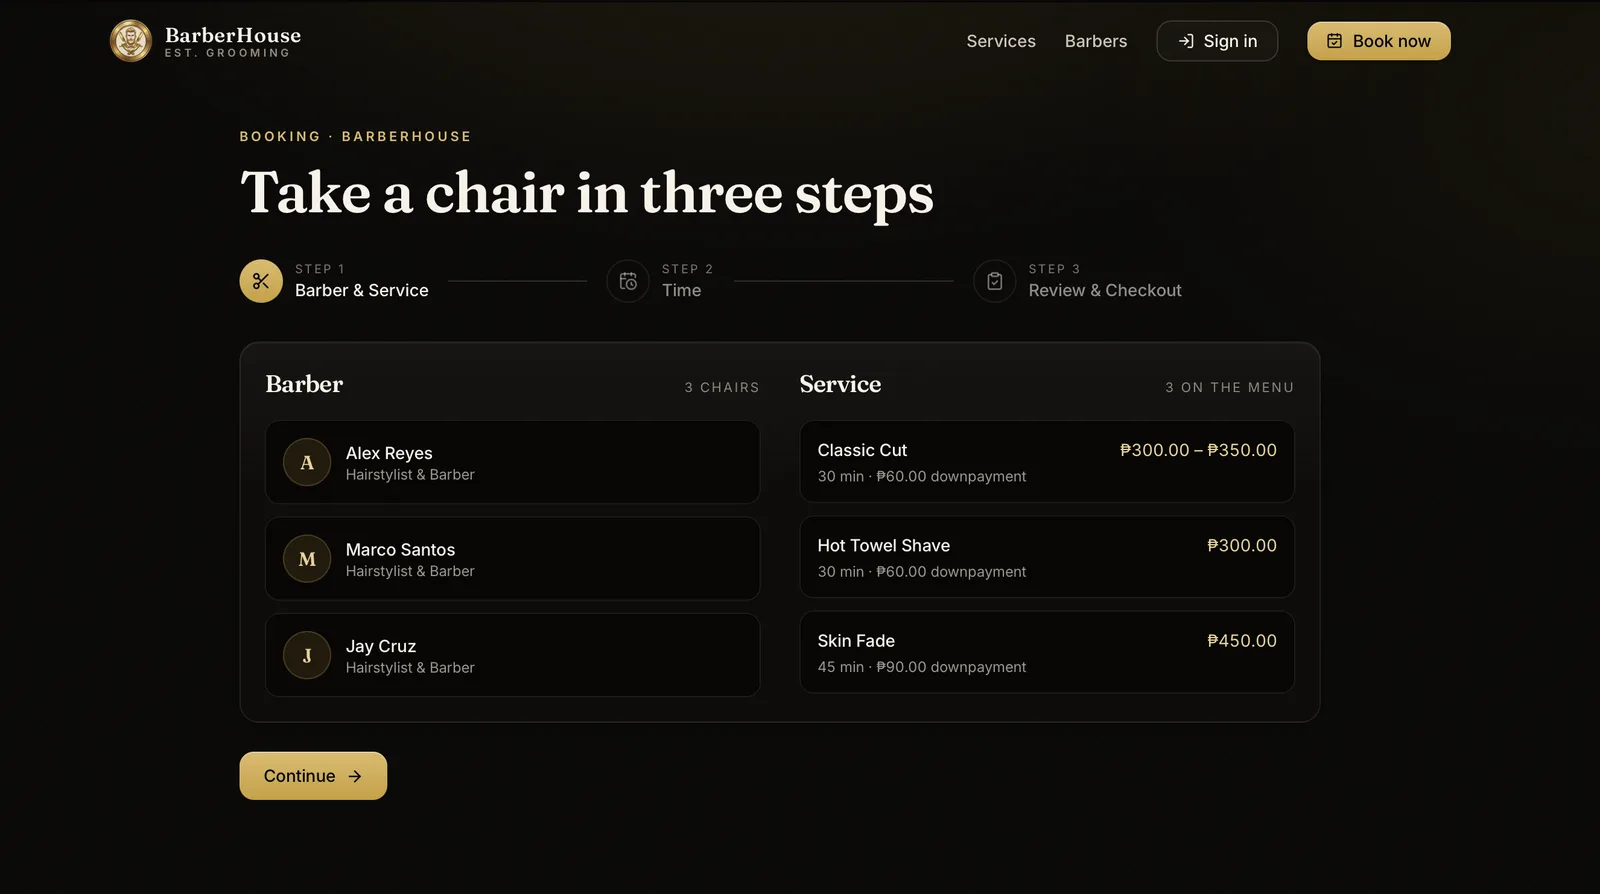
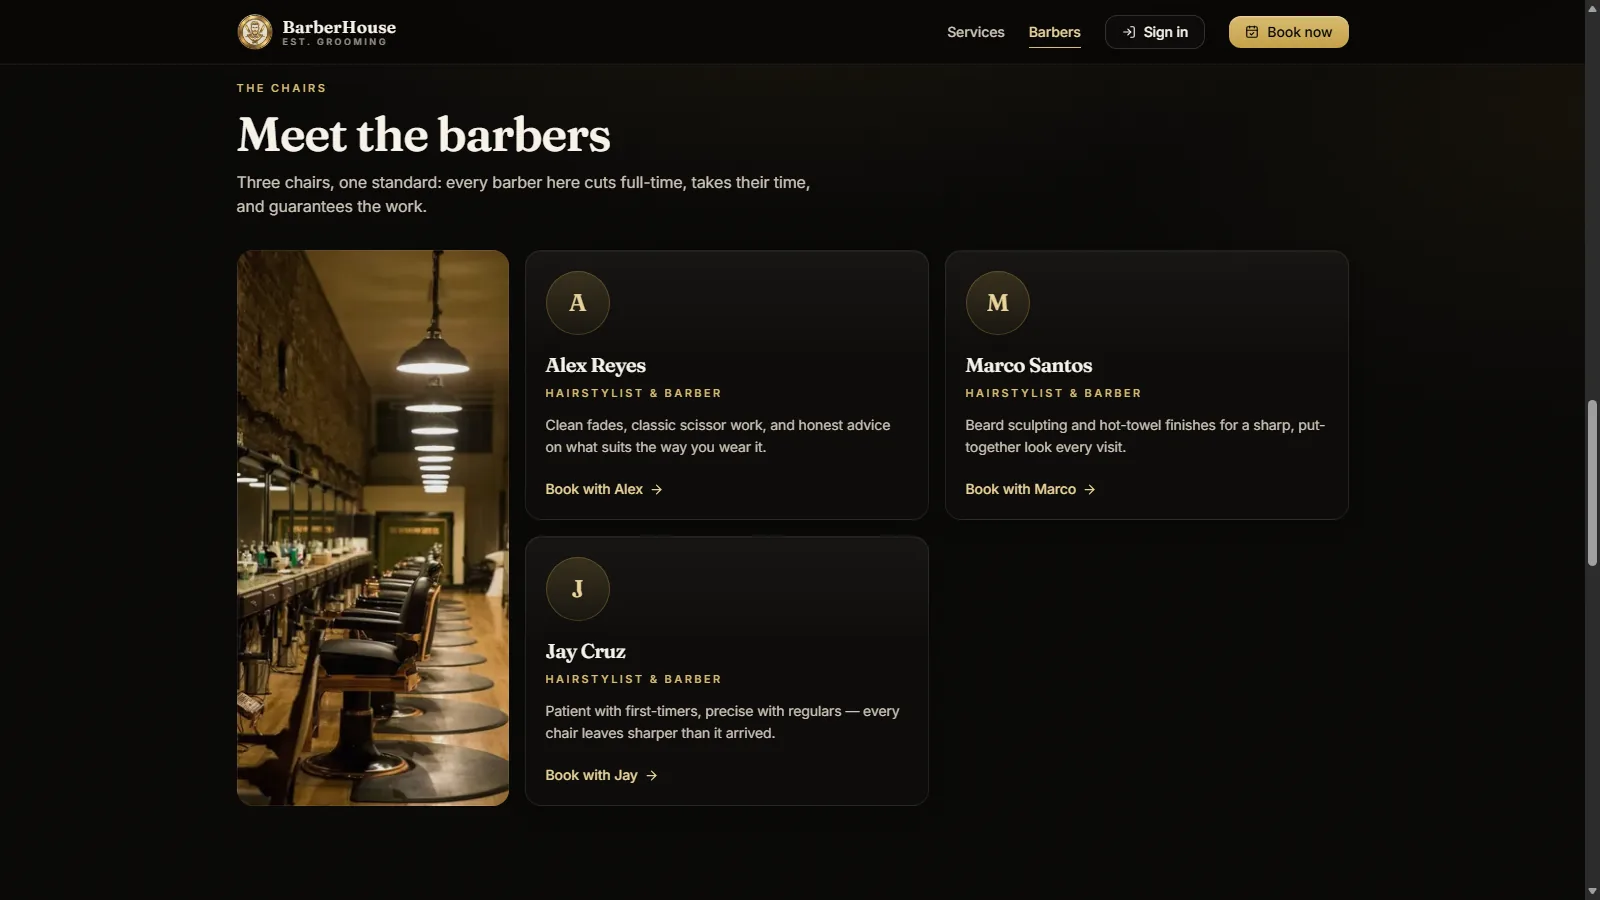
Re-shoot the TechSelect and BarberHouse screenshots
Both sites have changed since the last set was taken: BarberHouse now has
photographic backgrounds and a live /booking route, and TechSelect has a
photo hero and a different nav.

BarberHouse keeps five, re-framed on its own section anchors so the sticky
header no longer clips a heading: landing, the menu, the barbers, booking
step one from the live route, and the house rules.

TechSelect drops to three. Its /jobs, /developers, /clients and
/freelancers routes all return the sign-in page now, so the old job
search, profile and dashboard views cannot be re-shot. Two stale images
of a superseded design next to three current ones would read worse than
three current ones, so TS4 and TS5 are retired.

The four shots content.ts names are synced so the reel's copies match the
site's. No scene reads project.shots today -- the product screens are
drawn in ProjectUI.tsx -- but the file calls them the real screenshots,
so they should be.

diff --git a/wencetongol/src/components/Projects.jsx b/wencetongol/src/components/Projects.jsx
@@ -14,8 +14,6 @@ import BH5 from "../assets/img/projectsimg/BH5.webp";
 import TS1 from "../assets/img/projectsimg/TS1.webp";
 import TS2 from "../assets/img/projectsimg/TS2.webp";
 import TS3 from "../assets/img/projectsimg/TS3.webp";
-import TS4 from "../assets/img/projectsimg/TS4.webp";
-import TS5 from "../assets/img/projectsimg/TS5.webp";
 import VR1 from "../assets/img/projectsimg/VR1.webp";
 import VR2 from "../assets/img/projectsimg/VR2.webp";
 import VR3 from "../assets/img/projectsimg/VR3.webp";
@@ -184,11 +182,9 @@ const personal = [
       "Vitest",
     ],
     images: [
-      { src: TS1, alt: "The TechSelect landing page, with an example match" },
-      { src: TS2, alt: "Browsing jobs, with search and filters" },
-      { src: TS3, alt: "Browsing developers, each with rate and skills" },
-      { src: TS4, alt: "A public developer profile" },
-      { src: TS5, alt: "The developer dashboard and its match feed" },
+      { src: TS1, alt: "The TechSelect landing page" },
+      { src: TS2, alt: "How matching works, end to end" },
+      { src: TS3, alt: "What the board is for, and who it is for" },
     ],
     points: [
       "Modelled the domain as 20 Postgres tables behind 42 row-level security policies, treating RLS as the authorization boundary rather than the middleware, so a bypassed route still cannot read rows it does not own.",
@@ -218,10 +214,10 @@ const personal = [
     ],
     images: [
       { src: BH1, alt: "BarberHouse landing page" },
-      { src: BH2, alt: "Service menu priced per barber" },
-      { src: BH3, alt: "Booking step one: barber and service" },
-      { src: BH4, alt: "Booking step two: calendar and open slots" },
-      { src: BH5, alt: "Booking step three: review and QR downpayment" },
+      { src: BH2, alt: "The menu, priced per barber" },
+      { src: BH3, alt: "The three barbers, each bookable directly" },
+      { src: BH4, alt: "Booking step one: barber and service" },
+      { src: BH5, alt: "House rules: deposit, free moves and the grace period" },
     ],
     points: [
       "Built a three-step booking flow: barber and service, then date and time, then review and checkout, with each step gated on the one before it.",

diff --git a/remotion/src/content.ts b/remotion/src/content.ts
@@ -11,7 +11,7 @@ export const PROJECTS: Project[] = [
     url: "techselect.vercel.app",
     shots: [
       { src: "shots/TS1.webp", alt: "TechSelect landing page" },
-      { src: "shots/TS2.webp", alt: "Job search and filters" },
+      { src: "shots/TS2.webp", alt: "How matching works, end to end" },
     ],
   },
   {
@@ -19,7 +19,7 @@ export const PROJECTS: Project[] = [
     url: "barberhouseph.vercel.app",
     shots: [
       { src: "shots/BH1.webp", alt: "BarberHouse landing page" },
-      { src: "shots/BH3.webp", alt: "Selecting a barber and service" },
+      { src: "shots/BH3.webp", alt: "The three barbers, each bookable directly" },
     ],
   },
 ];
